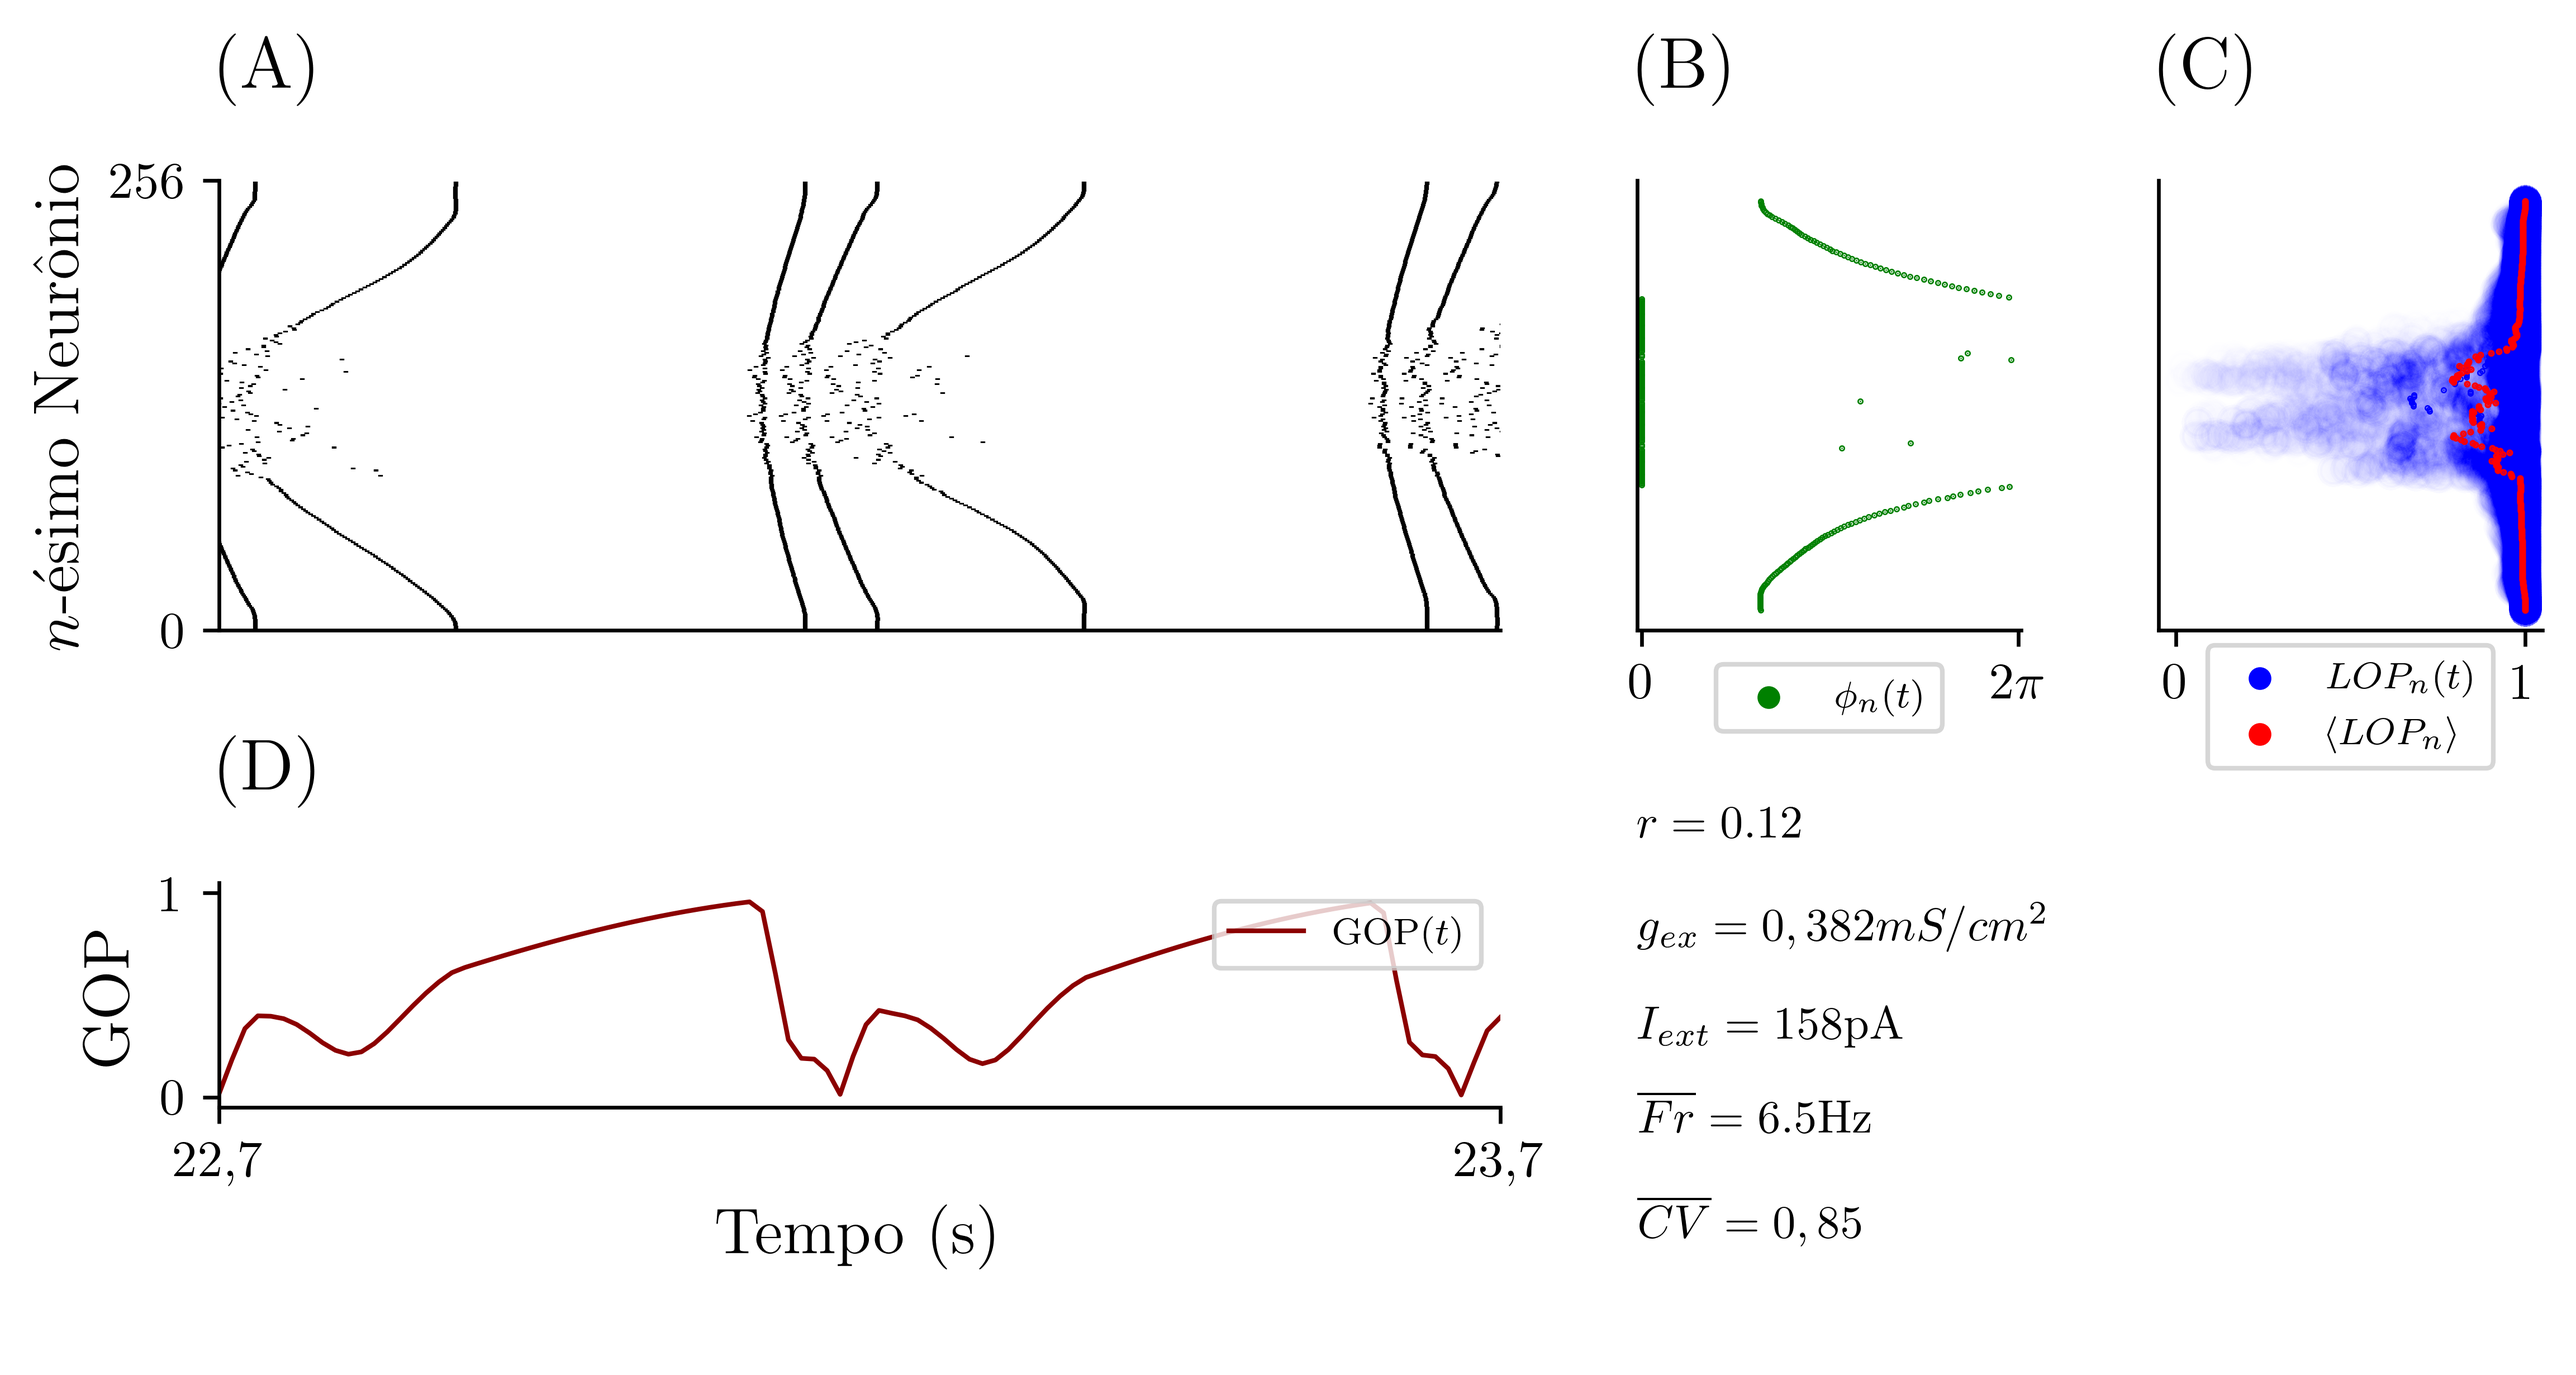
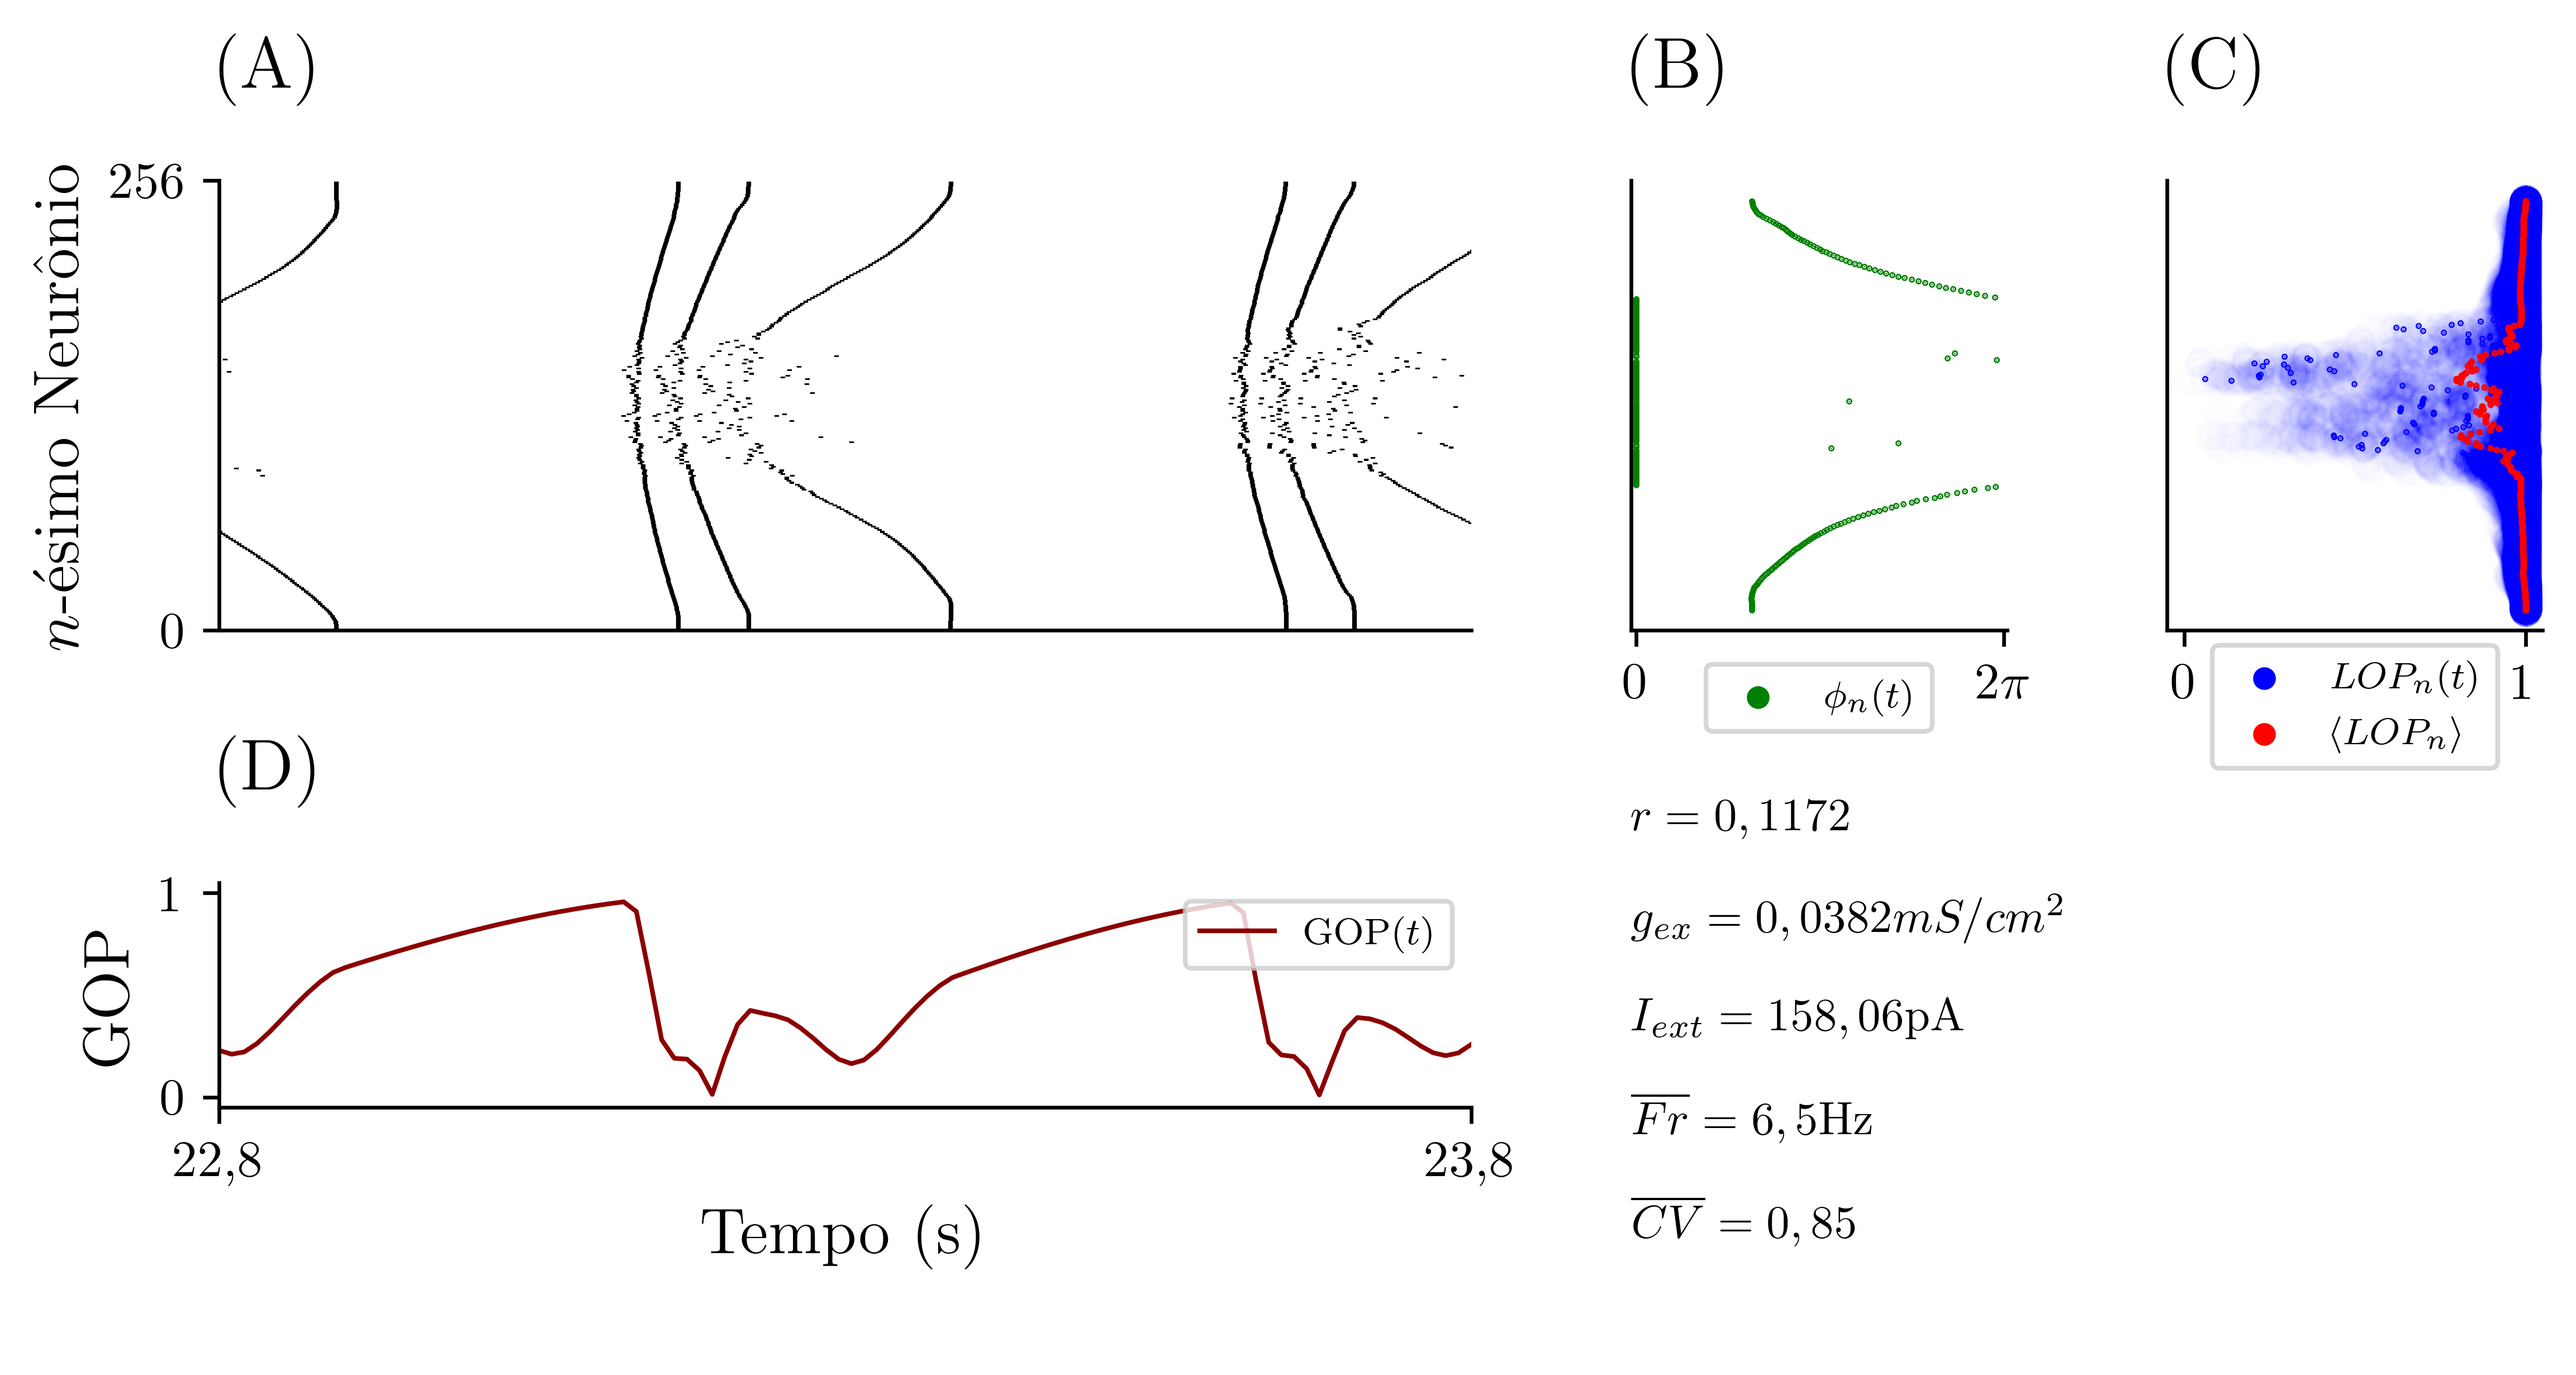
figures

diff --git a/codes_and_figures/plotAll.py b/codes_and_figures/plotAll.py
@@ -51,8 +51,8 @@ def plotAll(path):
     gop = data['GOP']
     lop = data['LOP_delta'][5]
 
-    ti = -210
-    tf = -110
+    ti = -201
+    tf = -101
 
     gop_sample = gop[ti:tf]
     lop_sample = lop[:,ti:tf]
@@ -122,14 +122,14 @@ def plotAll(path):
     ax[1][0].legend(loc='upper right')
 
 
-    raio = '$r = '+f'{neighbours/cellNumber:.2f}'+'$\n\n'
-    g = '$g_{ex}='+f'{gex:.3f} mS/cm^2'.replace('.',',')+'$\n\n'
-    i = '$I_{ext}='+f'{int(amp)}'+'$pA\n\n'
+    raio = '$r = '+f'{neighbours/cellNumber:.4f}'.replace('.',',')+'$\n\n'
+    g = '$g_{ex}='+f'{gex/10:.4f} mS/cm^2'.replace('.',',')+'$\n\n'
+    i = '$I_{ext}='+f'{amp:.2f}'+'$pA\n\n'
     fr = '$\overline{Fr} = '+f'{freq_mean:.1f}$'+'Hz\n\n'
     cv_mean = '$\overline{CV}='+f'{cv:.2f}'.replace('.',',')+'$\n\n' 
 
     infos = raio+g+i+fr+cv_mean
-    ax[1][1].annotate(infos, xy = (0,0), xytext=(0,-1), fontsize=10)
+    ax[1][1].annotate(infos.replace('.',','), xy = (0,0), xytext=(0,-1), fontsize=10)
     ax[1][1].yaxis.set_visible(False)
     ax[1][1].xaxis.set_visible(False)
     ax[1][1].spines['right'].set_visible(False)
